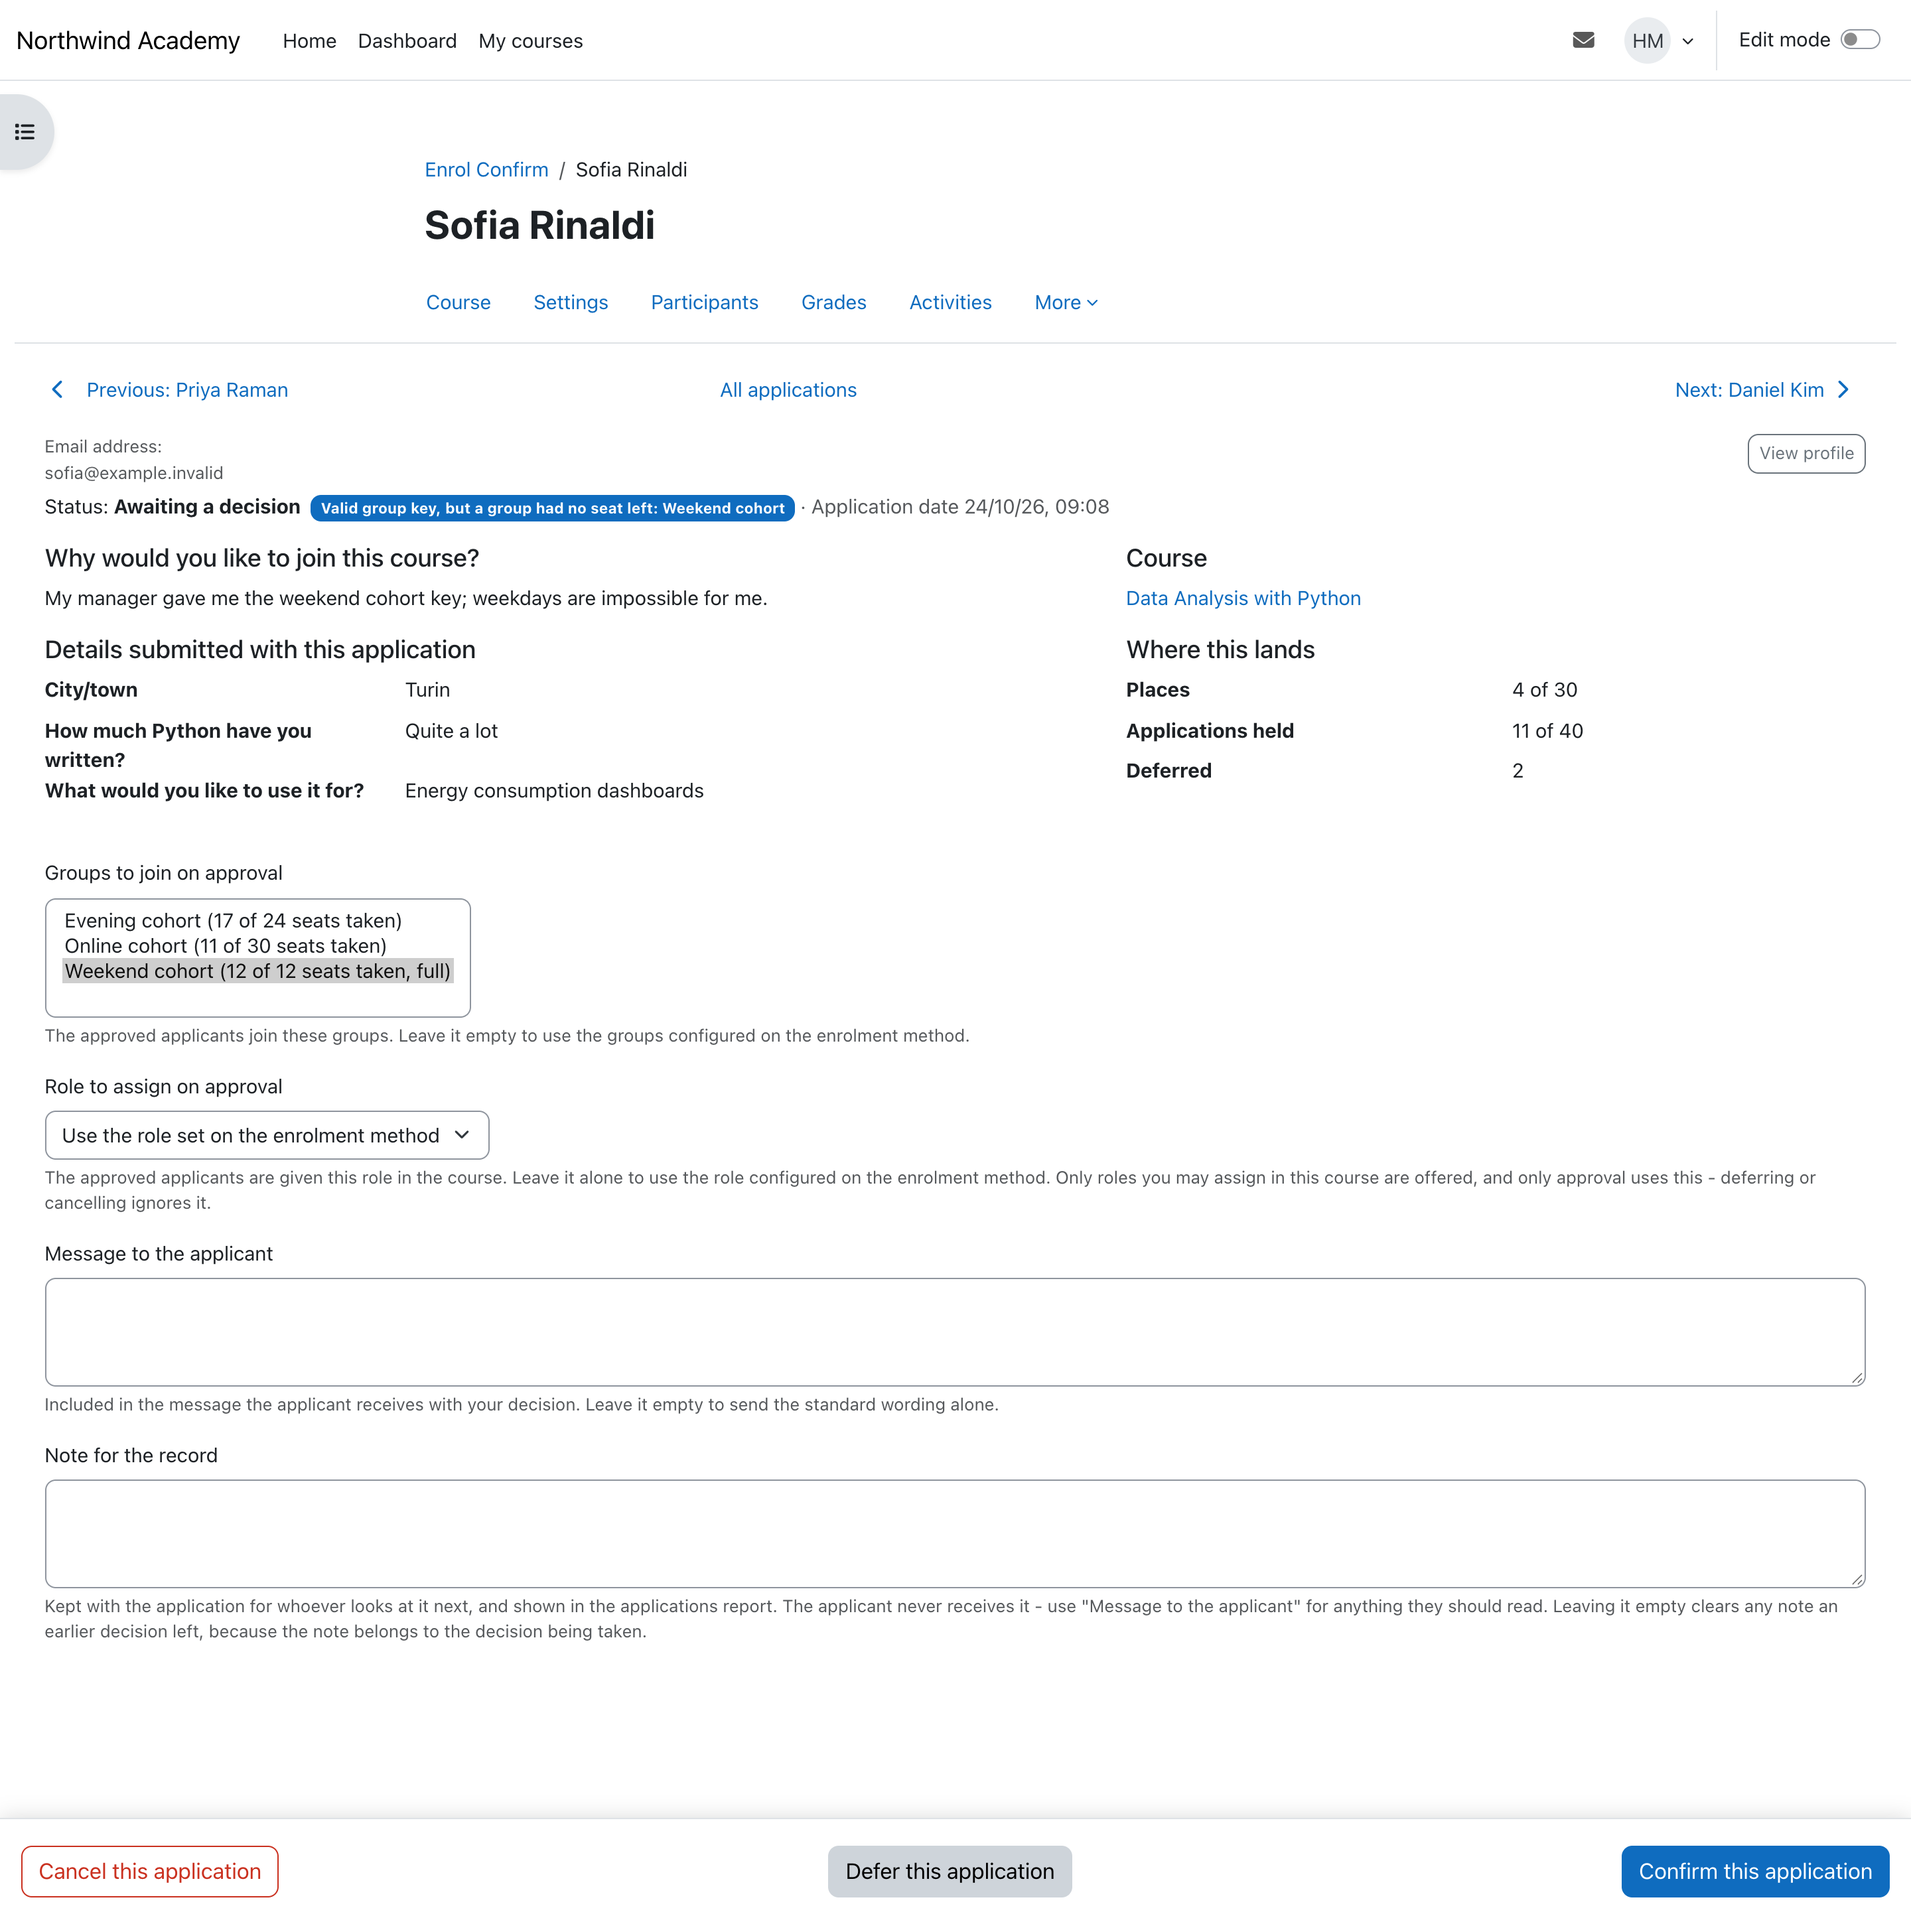
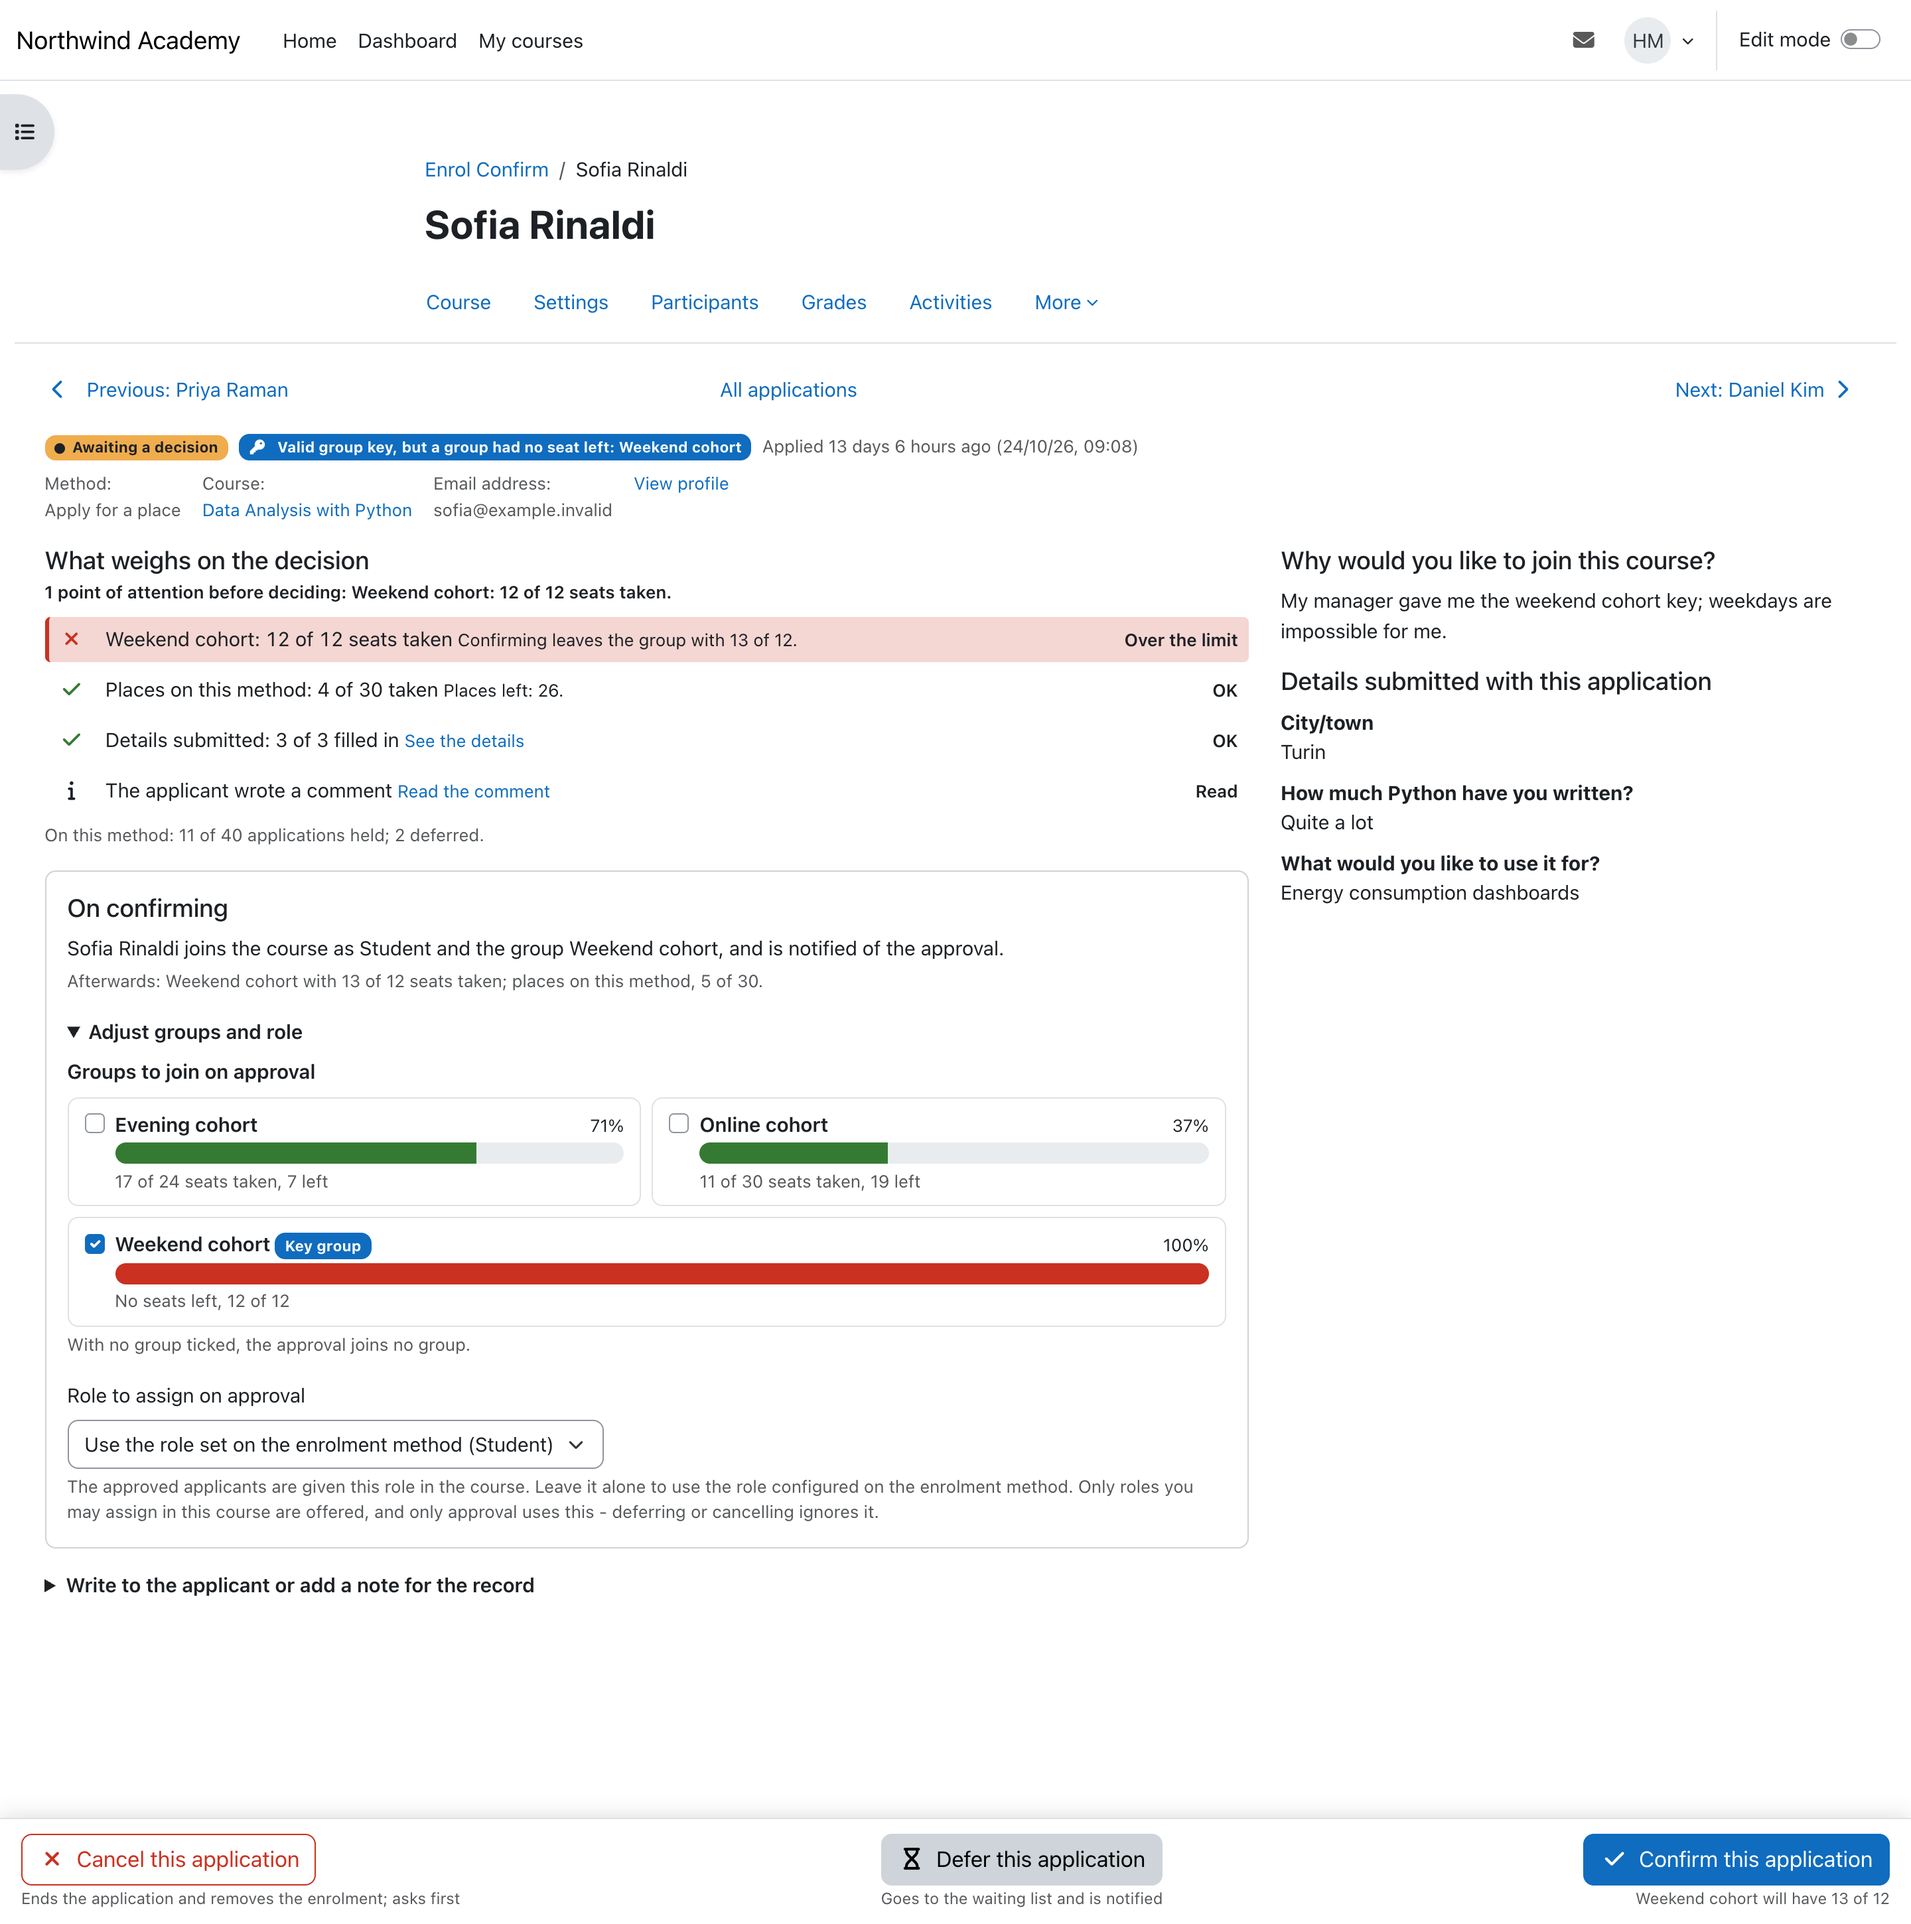
Recapture the README screenshots of the queue, review page, report and settings [skip ci]
The review page is the decision funnel now, the queue has its group column and filter, and the
report its groups-joined column; the alt texts and the prose say so, and the note that the review
shot predated its layout is gone. Taken on m501 from the DATA210 demo at version 2026110508.

diff --git a/README.md b/README.md
@@ -64,15 +64,16 @@ A valid group key enrols the applicant at once, in that group, with no review.
 
 ### Deciding
 
-![The approval queue: places and applications held, filters, and one row per application with the details submitted, the comment and badges for the waiting list, an earlier application and a group key that could not admit; the group chooser below shows each group's seats](docs/screenshots/queue.png)
+![The approval queue: applications awaiting a decision, deferred, places taken and applications held; filters by search, status, group and application date; one row per application with its group, the details submitted, the comment and badges for the waiting list and a group key that could not admit; the group chooser below shows each group's seats](docs/screenshots/queue.png)
 
 The queue for one method. The panel at the top counts what awaits a decision, what is deferred,
-the places taken and the applications held. Each row carries what the applicant submitted, the
-comment and a badge where there is something to know: on the waiting list, applied before, or a
-valid group key that found no place or seat. Select rows and decide them together from the bar at
+the places taken and the applications held. Each row carries the group its key named, what the
+applicant submitted, the comment and a badge where there is something to know: on the waiting
+list, applied before, or a valid group key that found no place or seat. The queue filters by group
+too. Select rows and decide them together from the bar at
 the foot of the page, choosing the groups and the role an approval gives.
 
-![Reviewing one application: the key's outcome, the details submitted, the capacity panel, the group chooser with seats and the three decisions](docs/screenshots/review.png)
+![Reviewing one application: the status and key strip, what weighs on the decision with a full group flagged over the limit, the On confirming card with its sentence and the group cards with their occupancy, the comment and details in a column of their own, and the three decisions in the bar at the foot](docs/screenshots/review.png)
 
 **Review** opens one application, with links to the previous and next, and reads top to bottom
 in the order a decision asks its questions:
@@ -103,14 +104,13 @@ The comment, the details submitted and the earlier applications sit in a column 
 which the signals link to. A reader who may only view applications gets the strip and the
 signals without the seats or places, and no decision.
 
-*The screenshot above predates this layout and needs recapturing.*
-
 ### The record
 
-![The applications report, sorted by admission route: status, dates, outcome, admission route, the group of the key and the answers to each question](docs/screenshots/report.png)
+![The applications report, sorted by admission route: status, submission date, outcome, admission route, the group of the key, the groups the approval joined and the answers to each question](docs/screenshots/report.png)
 
 Every application the course has recorded, decided ones included, with the outcome of each and
-how it was admitted. It filters, sorts and downloads as CSV or Excel.
+how it was admitted, the group of the key and the groups the approval joined. It filters (by
+group too), sorts and downloads as CSV or Excel.
 
 ### Setting up the method
 
